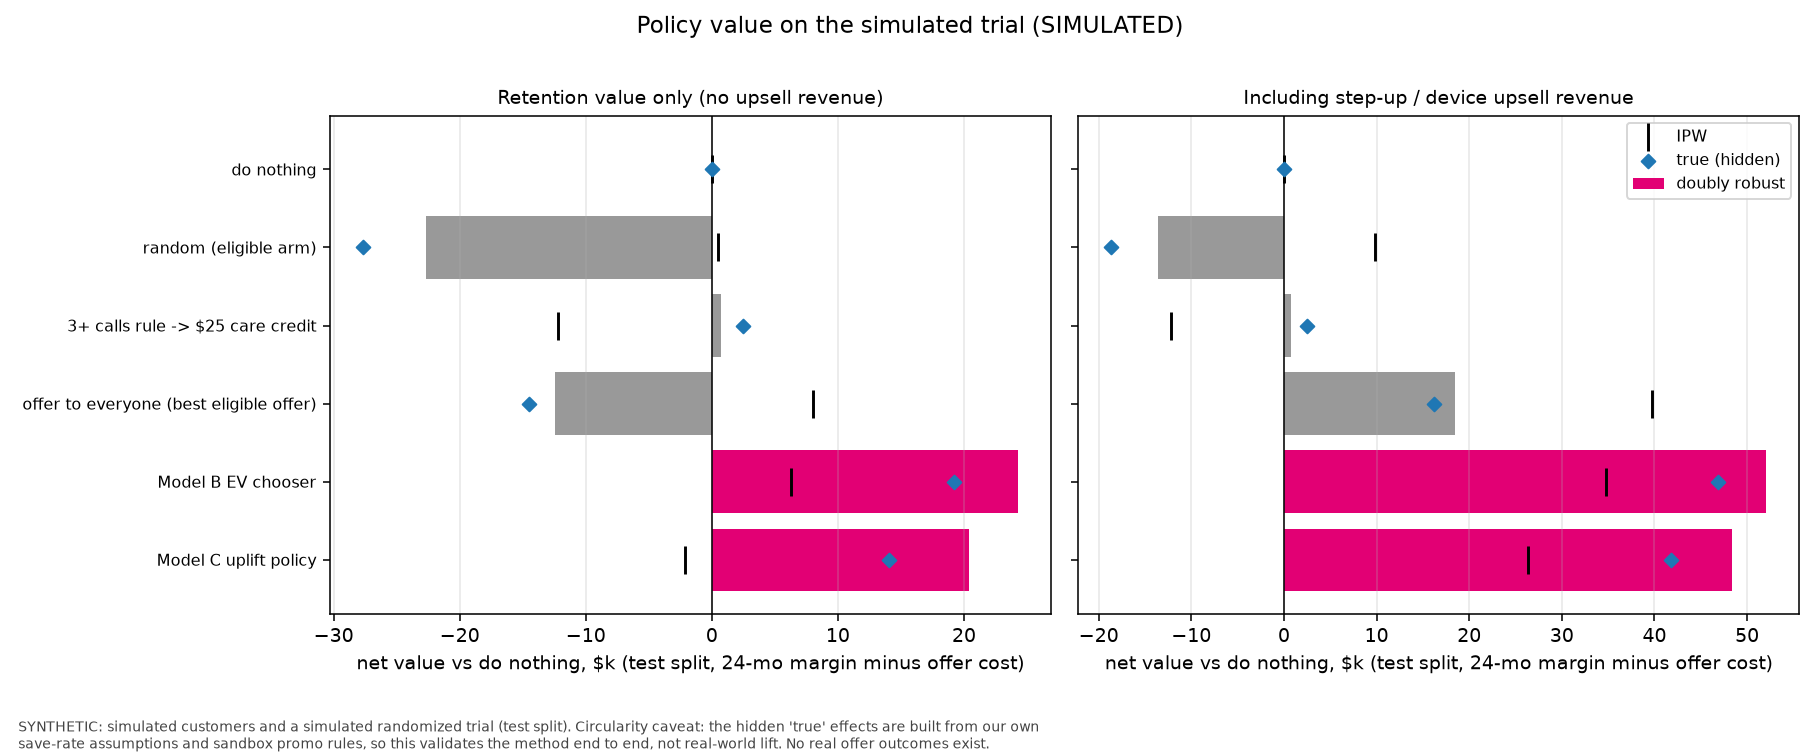
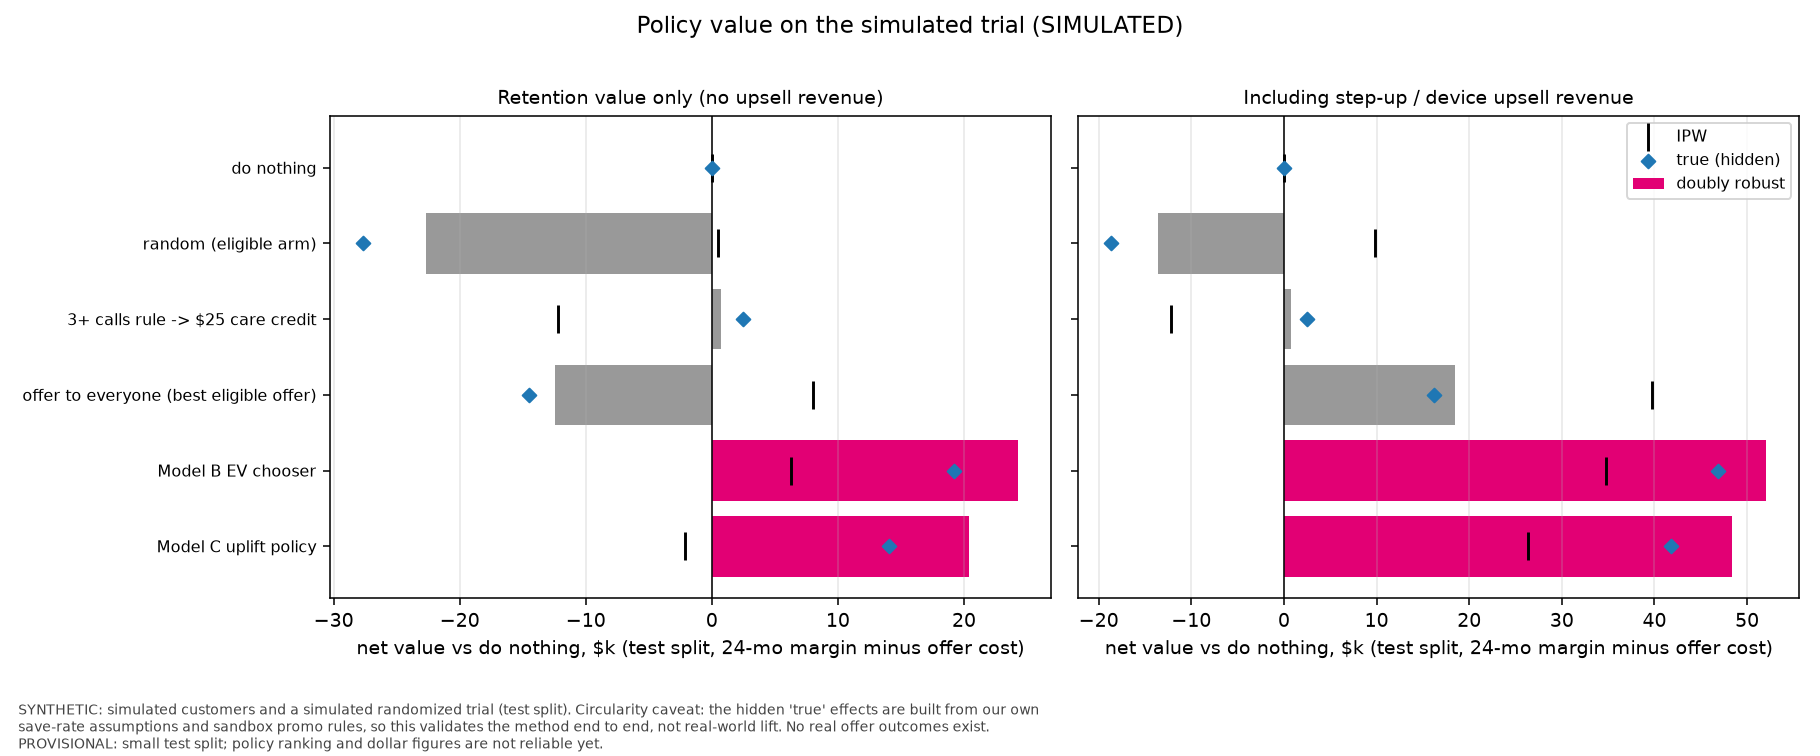
tm-offers: mark Model C policy figures PROVISIONAL (data_note, chart footnotes, README 'Reading the results'); TM_TRIAL_N trial-size knob (default off); artifacts only from canonical out/ (synthetic)

diff --git a/harness/uplift.py b/harness/uplift.py
@@ -53,6 +53,15 @@ TRIAL_REPLICATES = 20      # K independent re-randomized cohorts of the same 5,0
                            # (~28 churners in the test split vs ~12 true saves); env TM_TRIAL_REPLICATES overrides.
 RANDOM_POLICY_SEED = 99
 TRIAL_REPLICATES = int(os.environ.get("TM_TRIAL_REPLICATES", TRIAL_REPLICATES))
+# ---- TRIAL SIZE KNOB (default OFF = the 5,042 real sandbox accounts). TM_TRIAL_N=<n> grows the simulated
+# population to n accounts by resampling real accounts with jitter (p_churn x lognormal(0, 0.15), continuous
+# features x (1 + N(0, 0.05))); clones keep the original's eligibility, drivers and Model B terms and get ids
+# like "ACC-00001~1". Combine with TM_TRIAL_REPLICATES for more cohorts. Defaults unchanged.
+TRIAL_N = int(os.environ.get("TM_TRIAL_N", 0))
+TRIAL_N_SEED = 4242
+TRIAL_N_P_JITTER_SD = 0.15
+TRIAL_N_FEATURE_JITTER_SD = 0.05
+PROVISIONAL_NOTE = "PROVISIONAL: small test split, ranking not reliable"
 MIN_ARM_TRAIN = 40         # fewer treated train rows (or one outcome class) -> fallback model for that arm
 LOGREG_C = 0.3
 CURVE_POINTS = 101
@@ -324,7 +333,7 @@ def policy_table(policies: dict, test: pd.DataFrame, long_test: pd.DataFrame, re
                        "test split only; self-normalized IPW and doubly-robust estimates; "
                        "true_* columns use the hidden simulated effects. Truth is grounded in our own save-rate "
                        "assumptions (partly circular); not measured lift. Net value = 24-month margin net of "
-                       "offer cost (annoyance excluded).")
+                       "offer cost (annoyance excluded). " + PROVISIONAL_NOTE)
     return pe
 
 
@@ -398,7 +407,8 @@ def auuc_table(curve: pd.DataFrame) -> pd.DataFrame:
 # ------------------------------------------------------------------ charts
 FOOTNOTE = ("SYNTHETIC: simulated customers and a simulated randomized trial (test split). Circularity caveat: the "
             "hidden 'true' effects are built from our own\nsave-rate assumptions and sandbox promo rules, so this "
-            "validates the method end to end, not real-world lift. No real offer outcomes exist.")
+            "validates the method end to end, not real-world lift. No real offer outcomes exist.\n"
+            "PROVISIONAL: small test split; policy ranking and dollar figures are not reliable yet.")
 
 
 def charts(curve: pd.DataFrame, pe: pd.DataFrame) -> list[str]:
@@ -430,7 +440,7 @@ def charts(curve: pd.DataFrame, pe: pd.DataFrame) -> list[str]:
     axes[0].set_ylabel("cumulative incremental saves (test split)")
     axes[1].legend(fontsize=8, loc="lower right")
     fig.suptitle("Who to contact: Qini / uplift curves (SIMULATED)")
-    fig.tight_layout(rect=(0, 0.08, 1, 0.97))
+    fig.tight_layout(rect=(0, 0.10, 1, 0.97))
     fig.text(0.01, 0.01, FOOTNOTE, fontsize=7, color="#444444")
     p1 = CHART_DIR / "uplift_curve.png"
     fig.savefig(p1, dpi=140)
@@ -453,12 +463,41 @@ def charts(curve: pd.DataFrame, pe: pd.DataFrame) -> list[str]:
         ax.grid(axis="x", alpha=0.3)
     axes[1].legend(fontsize=8)
     fig.suptitle("Policy value on the simulated trial (SIMULATED)")
-    fig.tight_layout(rect=(0, 0.08, 1, 0.97))
+    fig.tight_layout(rect=(0, 0.10, 1, 0.97))
     fig.text(0.01, 0.01, FOOTNOTE, fontsize=7, color="#444444")
     p2 = CHART_DIR / "policy_value.png"
     fig.savefig(p2, dpi=140)
     plt.close(fig)
     return [str(p1), str(p2)]
+
+
+def expand_population(n_target: int, offers: pd.DataFrame, details: dict, features: pd.DataFrame,
+                      facts: pd.DataFrame, seed: int = TRIAL_N_SEED):
+    """Grow the simulated population to n_target accounts by resampling real accounts with jitter (TM_TRIAL_N)."""
+    n0 = len(offers)
+    if n_target <= n0:
+        return offers, details, features, facts
+    rng = np.random.default_rng(seed)
+    src = rng.choice(offers["account_id"].values, size=n_target - n0, replace=True)
+    count: dict[str, int] = {}
+    new_ids = []
+    for a in src:
+        count[a] = count.get(a, 0) + 1
+        new_ids.append(f"{a}~{count[a]}")
+    m = dict(zip(new_ids, src))
+    o2 = offers.set_index("account_id").loc[src].reset_index(drop=True)
+    o2.insert(0, "account_id", new_ids)
+    o2["p_churn_90d"] = (o2["p_churn_90d"] * np.exp(rng.normal(0, TRIAL_N_P_JITTER_SD, len(o2)))).clip(1e-4, 0.95)
+    f2 = features.set_index("account_id").loc[src].reset_index(drop=True)
+    cont = [c for c in f2.select_dtypes("float").columns if c != "is_persona"]
+    f2[cont] = f2[cont] * (1 + rng.normal(0, TRIAL_N_FEATURE_JITTER_SD, (len(f2), len(cont))))
+    f2.insert(0, "account_id", new_ids)
+    x2 = facts.set_index("account_id").loc[src].reset_index(drop=True)
+    x2.insert(0, "account_id", new_ids)
+    d2 = dict(details)
+    d2.update({nid: details[orig] for nid, orig in m.items()})
+    return (pd.concat([offers, o2], ignore_index=True), d2, pd.concat([features, f2], ignore_index=True),
+            pd.concat([facts, x2], ignore_index=True))
 
 
 # ------------------------------------------------------------------ pipeline
@@ -477,6 +516,9 @@ def run_once() -> dict:
     features = pd.read_csv(OUT / "features.csv")
     conn = ob.det.connect_ro()
     facts, _ = ob.det.apply_features_csv(ob.det.build_account_facts(conn), OUT / "features.csv")
+    details = dict(details)
+    if TRIAL_N > len(offers):
+        offers, details, features, facts = expand_population(TRIAL_N, offers, details, features, facts)
     p = offers.set_index("account_id")["p_churn_90d"]
     tenure = facts.set_index("account_id")["tenure_months"]
 
@@ -537,9 +579,11 @@ def run_once() -> dict:
     auuc.to_csv(OUT / "uplift_auuc.csv")
     pngs = charts(curve, pe)
 
-    # deck-ready committed copies
-    ARTIFACT_DIR.mkdir(exist_ok=True)
-    for src in [OUT / "policy_eval.csv", OUT / "uplift_curve.csv", OUT / "uplift_auuc.csv"] + [Path(x) for x in pngs]:
+    # deck-ready committed copies (only for the canonical out/ dir, so test runs never overwrite them)
+    write_artifacts = OUT.resolve() == (HERE / "out").resolve()
+    if write_artifacts:
+        ARTIFACT_DIR.mkdir(exist_ok=True)
+    for src in ([] if not write_artifacts else [OUT / "policy_eval.csv", OUT / "uplift_curve.csv", OUT / "uplift_auuc.csv"] + [Path(x) for x in pngs]):
         shutil.copy2(src, ARTIFACT_DIR / src.name)
 
     lt_c = lt[lt.action_code != "do_nothing"]
@@ -550,7 +594,7 @@ def run_once() -> dict:
         "churn_scores_mtime_epoch": scores_mtime,
         "churn_source": offers["churn_source"].iloc[0],
         "n_train": int((split == "train").sum()), "n_test": int((split == "test").sum()),
-        "trial_replicates": TRIAL_REPLICATES,
+        "trial_replicates": TRIAL_REPLICATES, "trial_n_accounts": len(offers),
         "arm_models": {k: {"kind": v["kind"], "n_train": v["n_train"]} for k, v in models.items()},
         "corr_uplift_hat_true_test_pearson": round(corr_p, 3),
         "corr_uplift_hat_true_test_spearman": round(corr_s, 3),

diff --git a/harness/UPLIFT_README.md b/harness/UPLIFT_README.md
@@ -3,6 +3,9 @@
 > **SYNTHETIC.** The customers come from the judge sandbox, and the trial, outcomes and "true" effects are our own
 > simulation. **Circularity caveat:** the hidden true effects are built from our save-rate assumptions and the
 > sandbox promo rules, so this validates the method end to end, not real-world lift. No real offer outcomes exist.
+>
+> **PROVISIONAL: small test split, ranking not reliable.** The dollar figures in policy_eval.csv and the policy
+> ranking can change with a larger trial. David is deciding whether to grow it (see "Scaling the trial").
 
 ## Run
 ```bash
@@ -10,6 +13,15 @@ python harness/uplift.py              # rebuilds offers.csv, offer_candidates.cs
                                       # uplift_curve.csv, uplift_auuc.csv, out/charts/*.png, model_c_artifacts/
 TM_TRIAL_REPLICATES=1 python harness/uplift.py   # a single trial cohort (underpowered; see caveats)
 ```
+
+## Scaling the trial (knobs; defaults unchanged)
+- `TM_TRIAL_N=<n>`: grows the simulated population to n accounts by resampling real sandbox accounts with jitter:
+  `p_churn × lognormal(0, 0.15)` and continuous features `× (1 + N(0, 0.05))`. Clones keep the original's
+  eligibility, drivers and Model B terms, get ids like `ACC-00001~1`, and appear in uplift.csv. The default is
+  0 (off), which means the 5,042 real accounts.
+- `TM_TRIAL_REPLICATES=<k>`: the number of independent re-randomized cohorts (default 20).
+- Example: `TM_TRIAL_N=50000 TM_TRIAL_REPLICATES=20 python harness/uplift.py`. Runtime grows roughly linearly.
+  Deck copies in `model_c_artifacts/` are only written when the output dir is the default `harness/out/`.
 A run takes about 40 s. If `out/churn_scores.csv` changes during the run, the script rebuilds once more.
 `out/offers_pipeline_run.json` records the churn_scores mtime used.
 **Dependency:** the PNGs need `matplotlib`, which is not in the shared `requirements.txt` (that file isn't owned by
@@ -53,6 +65,17 @@ writes every CSV and skips the PNGs.
    estimate of incremental saves from treating the top k,
    `Σ [1(A=do nothing)·churn/e − 1(A=arm)·churn/e]`, with the same ranking valued on the hidden truth in extra
    columns. AUUC is the mean gap between each curve and its random baseline (`uplift_auuc.csv`).
+
+## Reading the results (PROVISIONAL)
+- **Model B vs the oracle.** Doubly robust puts Model B slightly *above* the oracle on net value without upsell
+  (+$24.3k vs +$23.6k). That is estimator noise. On the hidden true effects the oracle wins ($21.8k vs $19.2k),
+  as it must by construction. The test split is too small to separate policies this close.
+- **Why Model C has the lowest Qini.** Its T-learner recovers effects that are weak and small (Spearman 0.38
+  between uplift_hat and true_uplift on test rows). It also picks arms by *net value*
+  (uplift × value − cost − annoyance), not by saves, so the arms it names save fewer churners and its
+  saves-based Qini curve tops out lower than the other models'. Model A and Model B rank by risk or EV and name
+  Model B's best arm, which is closer to the truth because the truth is built from similar assumptions
+  (the circularity caveat).
 
 ## Schemas
 **`out/uplift.csv`** has one row per account × eligible action, in this column order:
